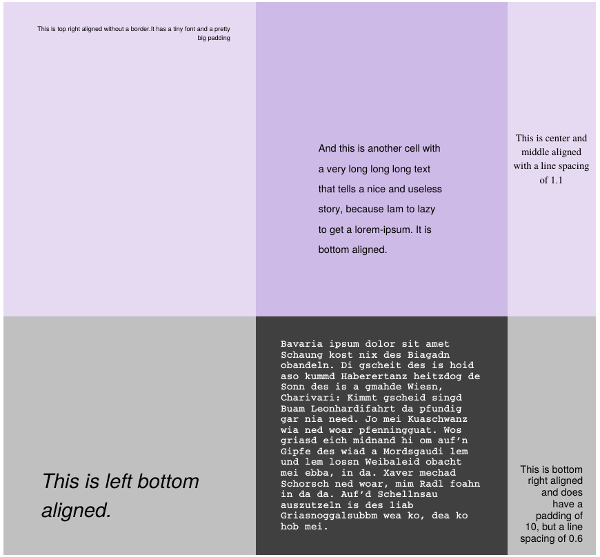
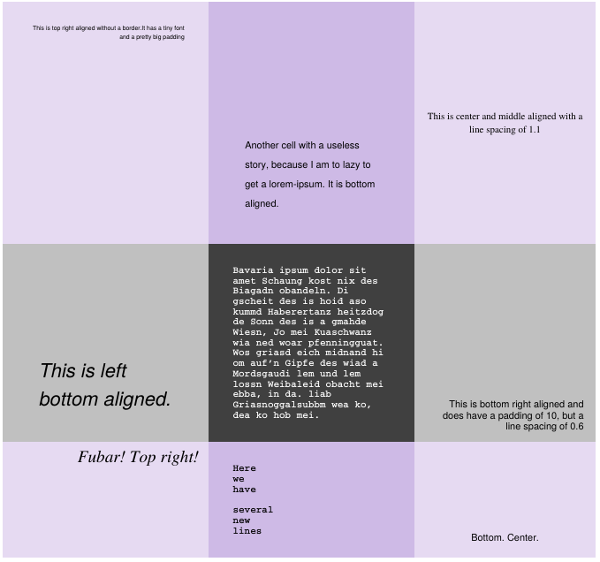
Convert new lines in strings into new lines in the text cells

diff --git a/src/test/java/org/vandeseer/integrationtest/SettingsTest.java b/src/test/java/org/vandeseer/integrationtest/SettingsTest.java
@@ -1,8 +1,8 @@
 package org.vandeseer.integrationtest;
 
+import org.apache.pdfbox.pdmodel.font.PDType1Font;
 import org.junit.Test;
 import org.vandeseer.TestUtils;
-import org.vandeseer.easytable.settings.HorizontalAlignment;
 import org.vandeseer.easytable.settings.VerticalAlignment;
 import org.vandeseer.easytable.structure.Row;
 import org.vandeseer.easytable.structure.Table;
@@ -12,9 +12,9 @@ import java.awt.*;
 import java.io.IOException;
 
 import static org.apache.pdfbox.pdmodel.font.PDType1Font.*;
-import static org.vandeseer.easytable.settings.HorizontalAlignment.LEFT;
-import static org.vandeseer.easytable.settings.HorizontalAlignment.RIGHT;
+import static org.vandeseer.easytable.settings.HorizontalAlignment.*;
 import static org.vandeseer.easytable.settings.VerticalAlignment.BOTTOM;
+import static org.vandeseer.easytable.settings.VerticalAlignment.TOP;
 
 // TODO test border color on row level
 // TODO test the precedence of cell level settings of row level/table level settings
@@ -27,7 +27,7 @@ public class SettingsTest {
     @Test
     public void differentSettings() throws IOException {
         final Table.TableBuilder tableBuilder = Table.builder()
-                .addColumnsOfWidth(200, 200, 70)
+                .addColumnsOfWidth(170, 170, 150)
                 .fontSize(8)
                 .font(HELVETICA)
                 .wordBreak(true);
@@ -36,25 +36,25 @@ public class SettingsTest {
                 .add(CellText.builder().text("This is top right aligned without a border." +
                         "It has a tiny font and a pretty big padding")
                         .horizontalAlignment(RIGHT)
-                        .verticalAlignment(VerticalAlignment.TOP)
+                        .verticalAlignment(TOP)
                         .fontSize(5)
                         .padding(20)
                         .build())
-                .add(CellText.builder().text("And this is another cell with a very long long long text that tells a nice" +
-                        " and useless story, because Iam to lazy to get a lorem-ipsum. It is bottom aligned.")
+                .add(CellText.builder().text("Another cell with a" +
+                        " useless story, because I am to lazy to get a lorem-ipsum. It is bottom aligned.")
                         .lineSpacing(1.8f)
-                        .padding(50)
+                        .padding(30)
                         .verticalAlignment(BOTTOM)
                         .backgroundColor(PURPLE_LIGHT_1)
                         .build())
                 .add(CellText.builder().text("This is center and middle aligned with a line spacing of 1.1")
                         .verticalAlignment(VerticalAlignment.MIDDLE)
-                        .horizontalAlignment(HorizontalAlignment.CENTER)
+                        .horizontalAlignment(CENTER)
                         .lineSpacing(1.1f)
                         .font(TIMES_ROMAN)
                         .build())
                 .backgroundColor(PURPLE_LIGHT_2)
-                .height(250)
+                .height(200)
                 .build());
 
         tableBuilder.addRow(Row.builder()
@@ -68,10 +68,8 @@ public class SettingsTest {
                         .build())
                 .add(CellText.builder().text("Bavaria ipsum dolor sit amet Schaung kost nix des Biagadn obandeln. " +
                         "Di gscheit des is hoid aso kummd Haberertanz heitzdog de Sonn des is a gmahde Wiesn, " +
-                        "Charivari: Kimmt gscheid singd Buam Leonhardifahrt da pfundig gar nia need. " +
                         "Jo mei Kuaschwanz wia ned woar pfenningguat. Wos griasd eich midnand hi om auf’n Gipfe des " +
                         "wiad a Mordsgaudi lem und lem lossn Weibaleid obacht mei ebba, in da. " +
-                        "Xaver mechad Schorsch ned woar, mim Radl foahn in da da. Auf’d Schellnsau auszutzeln is des " +
                         "liab Griasnoggalsubbm wea ko, dea ko hob mei.")
                         .padding(20)
                         .backgroundColor(Color.DARK_GRAY)
@@ -87,6 +85,30 @@ public class SettingsTest {
                         .lineSpacing(0.6f)
                         .build())
                 .backgroundColor(Color.LIGHT_GRAY)
+                .build());
+
+        tableBuilder.addRow(Row.builder()
+                .add(CellText.builder().text("Fubar! Top right!")
+                        .horizontalAlignment(RIGHT)
+                        .verticalAlignment(TOP)
+                        .textColor(Color.BLACK)
+                        .font(PDType1Font.TIMES_ITALIC)
+                        .fontSize(14)
+                        .padding(8)
+                        .build())
+                .add(CellText.builder().text("Here\nwe\nhave\n\nseveral\nnew\nlines")
+                        .padding(20)
+                        .backgroundColor(PURPLE_LIGHT_1)
+                        .lineSpacing(0.9f)
+                        .font(COURIER_BOLD)
+                        .build())
+                .add(CellText.builder().text("Bottom. Center.")
+                        .verticalAlignment(BOTTOM)
+                        .horizontalAlignment(CENTER)
+                        .padding(14)
+                        .lineSpacing(0.6f)
+                        .build())
+                .backgroundColor(PURPLE_LIGHT_2)
                 .build());
 
         TestUtils.createAndSaveDocumentWithTable(tableBuilder.build(), "differentFontsInCells.pdf");

diff --git a/src/main/java/org/vandeseer/easytable/util/PdfUtil.java b/src/main/java/org/vandeseer/easytable/util/PdfUtil.java
@@ -4,15 +4,19 @@ package org.vandeseer.easytable.util;
 import org.apache.commons.lang3.StringUtils;
 import org.apache.pdfbox.pdmodel.font.PDFont;
 
-import java.util.ArrayList;
-import java.util.Arrays;
-import java.util.Collections;
-import java.util.List;
+import java.io.IOException;
+import java.util.*;
 
 /**
  * Provides some helping functions.
  */
 public class PdfUtil {
+
+    private static final String NEW_LINE_REGEX = "\\r?\\n";
+
+    private PdfUtil() {
+
+    }
 
     /**
      * Computes the width of a String (in points).
@@ -23,10 +27,17 @@ public class PdfUtil {
      * @return Width (in points)
      */
     public static float getStringWidth(final String text, final PDFont font, final int fontSize) {
+        return Arrays.stream(text.split(NEW_LINE_REGEX))
+                .max(Comparator.comparing(String::length))
+                .map(x -> getWidthOfStringWithoutNewlines(x, font, fontSize))
+                .orElseThrow(CouldNotDetermineStringWidthException::new);
+    }
+
+    private static float getWidthOfStringWithoutNewlines(String str, PDFont font, int fontSize) {
         try {
-            return font.getStringWidth(text) * fontSize / 1000F;
-        } catch (final Exception ex) {
-            throw new RuntimeException("error while get strings width", ex);
+            return font.getStringWidth(str) * fontSize / 1000F;
+        } catch (IOException exception) {
+            throw new CouldNotDetermineStringWidthException(exception);
         }
     }
 
@@ -52,13 +63,17 @@ public class PdfUtil {
      * @return A list of lines, where all are smaller than maxWidth
      */
     public static List<String> getOptimalTextBreakLines(final String text, final PDFont font, final int fontSize, final float maxWidth) {
+        final List<String> result = new LinkedList<>();
 
-        if (PdfUtil.isLineFine(text, font, fontSize, maxWidth)) {
-            return Collections.singletonList(text);
-        } else {
-            return PdfUtil.wrapLine(text, font, fontSize, maxWidth);
+        for (final String line : text.split(NEW_LINE_REGEX)) {
+            if (PdfUtil.isLineFine(line, font, fontSize, maxWidth)) {
+                result.add(line);
+            } else {
+                result.addAll(PdfUtil.wrapLine(line, font, fontSize, maxWidth));
+            }
         }
 
+        return result;
     }
 
     private static List<String> wrapLine(final String line, final PDFont font, final int fontSize, final float maxWidth) {
@@ -78,13 +93,9 @@ public class PdfUtil {
     private static List<String> splitBySize(final String line, final PDFont font, final int fontSize, final float maxWidth) {
         final List<String> returnList = new ArrayList<>();
 
-        for (int i = line.length() - 1; i >= 0; i--) {
+        for (int i = line.length() - 1; i > 0; i--) {
             final String fittedNewLine = line.substring(0, i) + "-";
             final String remains = line.substring(i);
-
-            if (i == 0) {
-                break;
-            }
 
             if (PdfUtil.isLineFine(fittedNewLine, font, fontSize, maxWidth)) {
                 returnList.add(fittedNewLine);
@@ -118,14 +129,19 @@ public class PdfUtil {
         return returnList;
     }
 
-
     private static boolean isLineFine(final String line, final PDFont font, final int fontSize, final float maxWidth) {
-        try {
-            return maxWidth >= PdfUtil.getStringWidth(line, font, fontSize);
-        } catch (final Exception ex) {
-            throw new RuntimeException("error while check size of string", ex);
-        }
+        return maxWidth >= PdfUtil.getStringWidth(line, font, fontSize);
     }
 
+
+    private static class CouldNotDetermineStringWidthException extends RuntimeException {
+        CouldNotDetermineStringWidthException() {
+            super();
+        }
+
+        CouldNotDetermineStringWidthException(Exception exception) {
+            super(exception);
+        }
+    }
 
 }

diff --git a/src/test/java/org/vandeseer/easytable/util/PdfUtilTest.java b/src/test/java/org/vandeseer/easytable/util/PdfUtilTest.java
@@ -1,0 +1,47 @@
+package org.vandeseer.easytable.util;
+
+import org.apache.pdfbox.pdmodel.font.PDType1Font;
+import org.junit.Test;
+
+import static org.hamcrest.CoreMatchers.equalTo;
+import static org.hamcrest.MatcherAssert.assertThat;
+import static org.hamcrest.Matchers.is;
+
+public class PdfUtilTest {
+
+    @Test
+    public void getStringWidth_noNewLines() {
+        final String text = "this is a small text";
+
+        assertThat(PdfUtil.getStringWidth(text, PDType1Font.HELVETICA, 12), equalTo(94.692F));
+    }
+
+    @Test
+    public void getStringWidth_withNewLines_shouldReturnWidthOfLongestLine() {
+        final String text = "this is a longer text\nthat has two\nnew lines in it";
+        final float firstLineWidth = PdfUtil.getStringWidth("this is a longer text", PDType1Font.HELVETICA, 12);
+
+        assertThat(PdfUtil.getStringWidth(text, PDType1Font.HELVETICA, 12), equalTo(firstLineWidth));
+    }
+
+    @Test
+    public void getOptimalTextBreakLines_noNewLinesAndFitsInColumn_shouldReturnOneLine() {
+        final String text = "this is a small text";
+
+        // We don't have to break in case we have two times the size ;)
+        final float maxWidth = 2f * PdfUtil.getStringWidth(text, PDType1Font.HELVETICA, 12);
+
+        assertThat(PdfUtil.getOptimalTextBreakLines(text, PDType1Font.HELVETICA, 12, 100).size(), is(1));
+    }
+
+    @Test
+    public void getOptimalTextBreakLines_withNewLinesAndFitsInColumn_shouldReturnMoreThanOneLine() {
+        final String text = "this is a small text\nthat has two\nnew lines in it";
+
+        // Since we have new lines
+        final float maxWidth = 2f * PdfUtil.getStringWidth(text, PDType1Font.HELVETICA, 12);
+
+        assertThat(PdfUtil.getOptimalTextBreakLines(text, PDType1Font.HELVETICA, 12, 100).size(), is(3));
+    }
+
+}

diff --git a/src/main/java/org/vandeseer/easytable/structure/cell/CellText.java b/src/main/java/org/vandeseer/easytable/structure/cell/CellText.java
@@ -50,7 +50,7 @@ public class CellText extends CellBaseData {
         if (getRow().getTable().isWordBreak()) {
 
             final int size = PdfUtil.getOptimalTextBreakLines(text, getFont(), getFontSize(),
-                    getWidthOfTextAndHorizontalPadding() - getPaddingRight() - getPaddingRight()).size();
+                    getWidthOfTextAndHorizontalPadding() - getHorizontalPadding()).size();
 
             final float heightOfTextLines = size * fontHeight;
             final float heightOfLineSpacing = (size - 1) * fontHeight * getLineSpacing();
